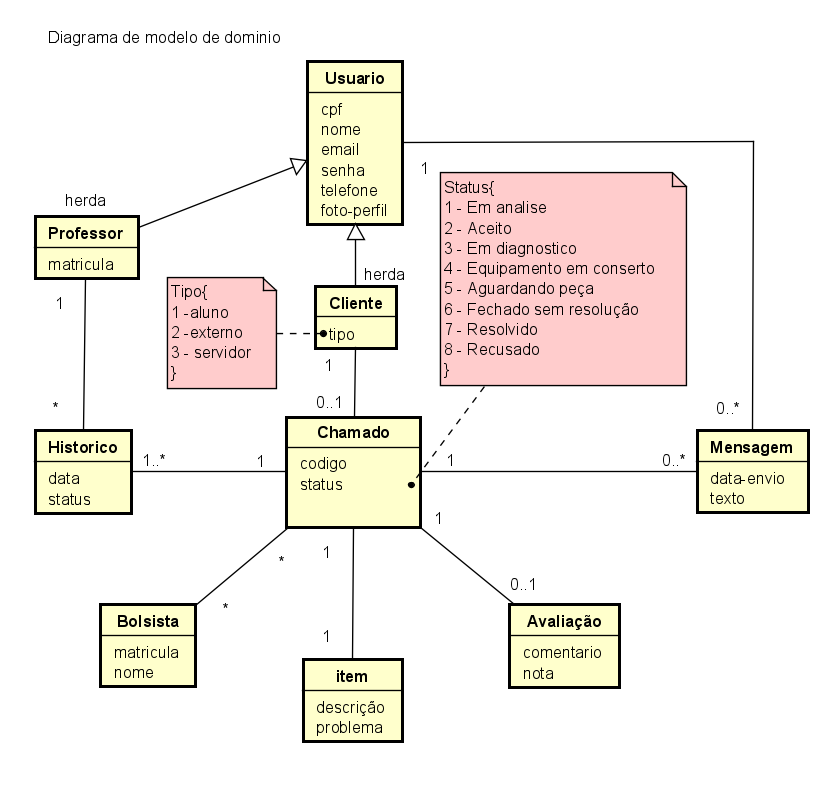
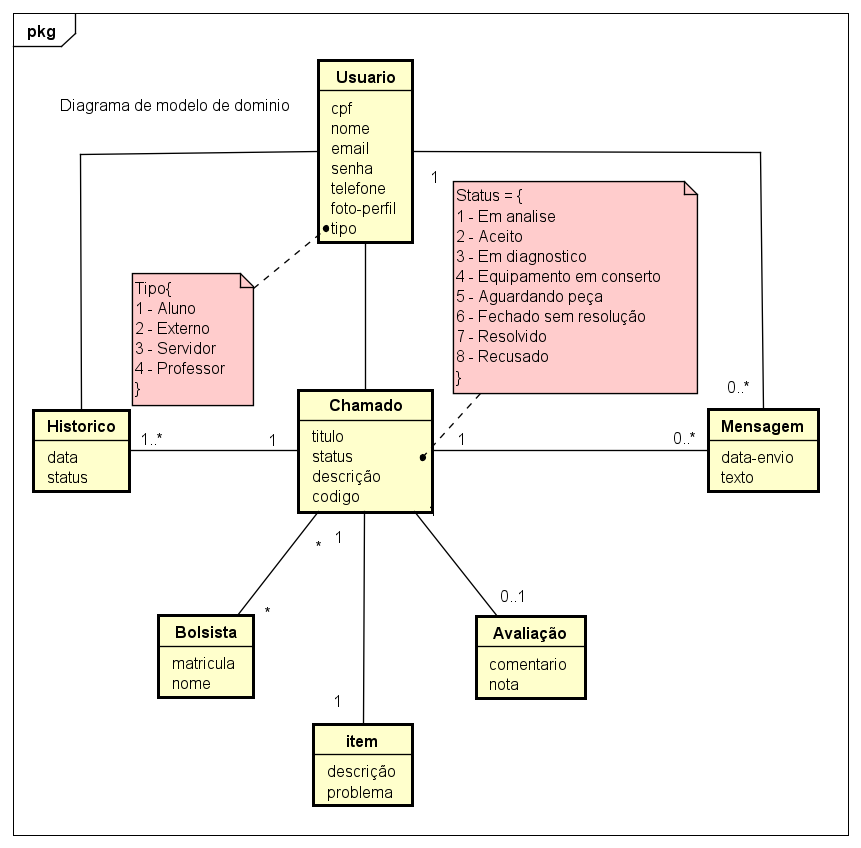
Atualização e adição diagrama de dominio e de classe

diff --git a/doc/dominio/dominio.md b/doc/dominio/dominio.md
@@ -1,10 +1,10 @@
 # Modelo de Domínio
 
-![diagrama de classe de dominio](img/dominio1.png "Diagrama de caso de uso - cliente")
+![diagrama de classe de dominio](img/dominio1.png "Diagrama de classe de dominio")
+
+# Diagrama de Classes
+
+![diagrama de classe](img/classe.png "Diagrama de classe")
 
 ## Glossário (sugestão)
 
-|  Termo  |  Explicação  |
-| ------- | ------------ |
-| Termo 1 | Explicação 1... |
-| Termo 2 | Explicação 2... |
